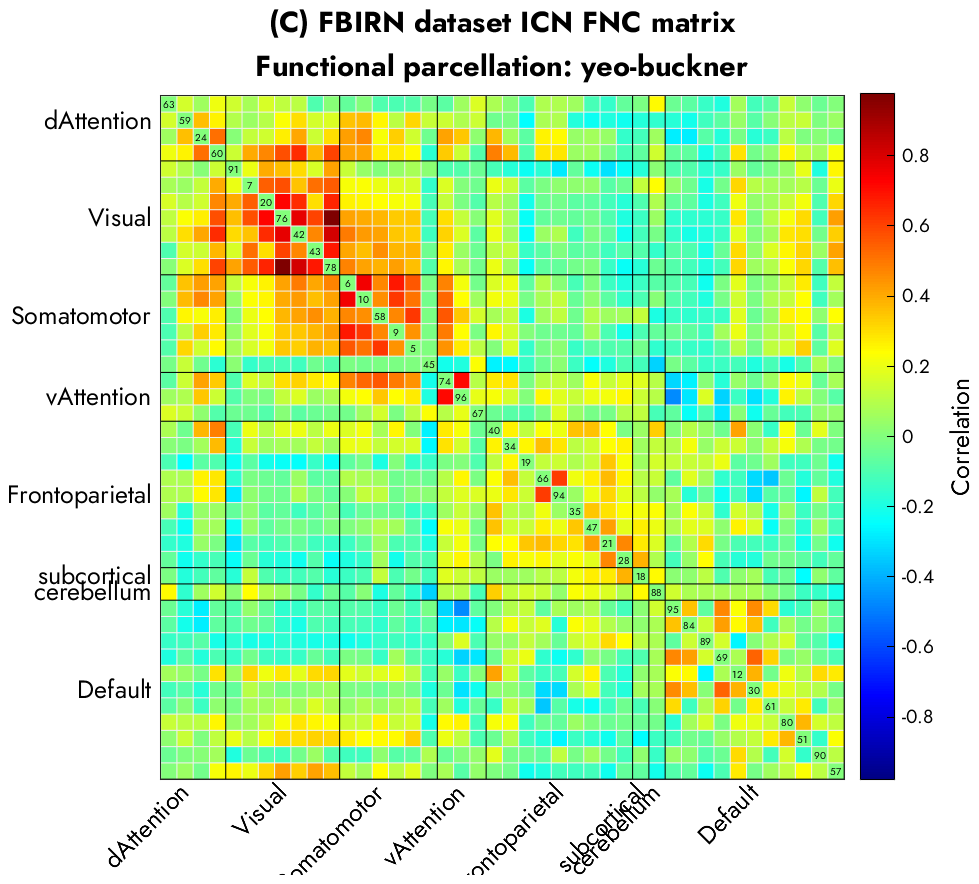
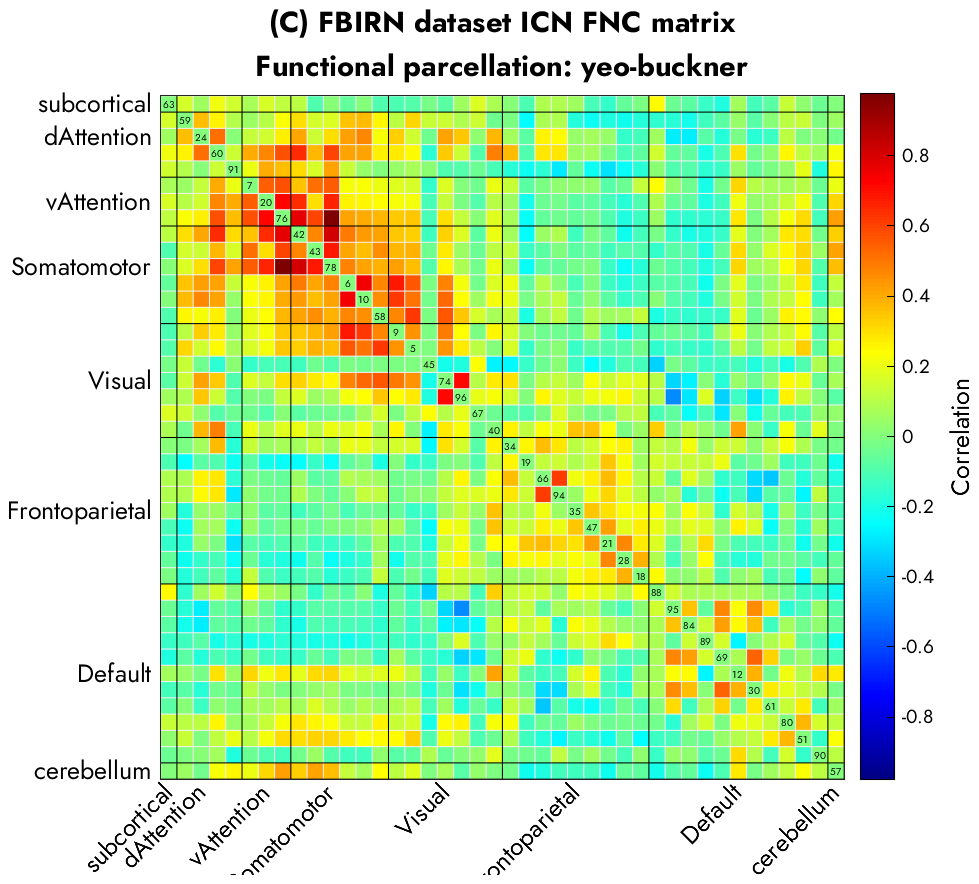
mostly readme

diff --git a/bin/autolabeller/label_auto_main.m b/bin/autolabeller/label_auto_main.m
@@ -137,8 +137,12 @@ function label_auto_main( params )
     
     % predict functional labels
     if params.skip_functional
-        func_labels = readtable( fullfile( params.outpath, ['functional_labels_' params.functional_atlas '.csv'] ) );
-        func_labels = [func_labels.Properties.VariableNames; table2cell( func_labels )];
+        % check if the func label file exists
+        fl = fullfile( params.outpath, ['functional_labels_' params.functional_atlas '.csv'] );
+        if exist( fl )        
+            func_labels = readtable( fl );
+            func_labels = [func_labels.Properties.VariableNames; table2cell( func_labels )];
+        end
     else
         func_labels = label_functional( sm_path, mask_path, params.threshold, network_labels, params.functional_atlas, params.n_corr, params.outpath );
     end
@@ -163,8 +167,12 @@ function label_auto_main( params )
     end
 
     % write output
-    writecell( anat_labels, fullfile(params.outpath, ['anatomical_labels_' params.anatomical_atlas '.csv']) )
-    writecell( func_labels, fullfile(params.outpath, ['functional_labels_' params.functional_atlas '.csv']) )
+    if ~params.skip_anatomical
+        writecell( anat_labels, fullfile(params.outpath, ['anatomical_labels_' params.anatomical_atlas '.csv']) )
+    end
+    if ~params.skip_functional
+        writecell( func_labels, fullfile(params.outpath, ['functional_labels_' params.functional_atlas '.csv']) )
+    end
     if flag_sort_fnc
         csvwrite( fullfile(params.outpath, ['sorted_network_idx_' params.functional_atlas '.csv']), sorted_idx )
         csvwrite( fullfile(params.outpath, ['sorted_fnc_' params.functional_atlas '.csv']), network_fnc )

diff --git a/src/example_plot_gica_sm.m b/src/example_plot_gica_sm.m
@@ -5,17 +5,17 @@ addpath( genpath( '../bin/GroupICATv4.0b/' ) )
 addpath( '/trdapps/linux-x86_64/matlab/toolboxes/spm12/' )
 addpath( genpath( '../bin/MCIv4/' ) )
 addpath( genpath( '../bin/CanlabCore/' ) )
-addpath( '/data/mialab/users/salman/projects/funfc/src/' )
+addpath( '/data/users2/salman/projects/funfc/src/' )
 
 % % fbirn
 % outpath = '../results/fbirn_trained_by_neuromark/';
-% param_file = '/data/mialab/users/salman/projects/fBIRN/current/data/ICAresults_C100_fbirn/fbirnp3_rest_ica_parameter_info.mat';
+% param_file = '/data/users2/salman/projects/fBIRN/current/data/ICAresults_C100_fbirn/fbirnp3_rest_ica_parameter_info.mat';
 % anatomical_atlas = 'aal';
 % functional_atlas = 'yeo_buckner';
 
 % cobre
 outpath = '../results/cobre_trained_by_neuromark/';
-param_file = '/data/mialab/users/salman/projects/COBRE/current/results/ica_results_old/cobre1_ica_parameter_info.mat';
+param_file = '/data/users2/salman/projects/COBRE/current/results/ica_results_old/cobre1_ica_parameter_info.mat';
 anatomical_atlas = 'aal';
 functional_atlas = 'yeo_buckner';
 

diff --git a/README.md b/README.md
@@ -75,13 +75,29 @@ Example code can be found in `src/example_label_ic.m`.
 
 ### Outputs
 The following files are written into params.outpath folder:
-* `network_labels.csv` Network labels vector (0=artifact, 1=network)
-* `anatomical_labels.csv` AAL anatomical region with highest correlations to the spatial maps
-* `functional_labels.csv` Functional parcellations with highest correlations to the spatial maps
-* `sorted_IC_idx.csv` sorted IC index
-* `sorted_fnc.csv` sorted FNC matrix
+* `network_labels.csv` is a vector of 0/1 corresponding to the input spatial maps; 0=artifact, 1=network
+* `anatomical_labels.csv` has the following columns:
+    * `volume` 1-N where N is the number of input spatial maps
+    * `network` a vector of 0/1 corresponding to the input spatial maps; 0=artifact, 1=network
+    * `region_1`,`spatial_corr_1` AAL anatomical region with the highest spatial correlation to the spatial maps, and the correlation value
+    * `region_2`,`spatial_corr_2`,`region_3`,`spatial_corr_3` AAL anatomical region with the second and third highest spatial correlations to the spatial maps, and the corresponding correlation values
+* `functional_labels_[atlas].csv` has the following columns:
+    * `volume` 1-N where N is the number of input spatial maps
+    * `network` a vector of 0/1 corresponding to the input spatial maps; 0=artifact, 1=network
+    * `region_1`,`spatial_corr_1` Functional parcellation from [atlas] with highest spatial correlation to the spatial maps, and the correlation value. Current available atlas are Yeo/BucknerLab, Gordon (2016), and CAREN 
+    * `region_2`,`spatial_corr_2`,`region_3`,`spatial_corr_3` Functional parcellations with the second and third highest correlations to the spatial maps, and the corresponding correlation values
+* `sorted_IC_idx_[atlas].csv` sorted index of the input spatial maps corresponding to the brain networks (artifact-related component indexes are removed)
+* `sorted_fnc_[atlas].csv` sorted functional network connectivity (FNC) matrix of the brain networks 
+* `nc` folder contains the noisecloud toolbox output. It has the following files:
+    * `*.nii` template `nii` files warped into the same space as the input spatial maps.
+    * `nc_class_labels.txt` a vector of 0/1 corresponding to the input spatial maps; 0=artifact, 1=network
+    * `training/testing_features.csv` contains the training/testing input data features used by the noisecloud toolbox in classification.  
 
 ## Result
+
+The following figures are generated using the `./src/example_plot_fnc.m` script. 
+You can update the ICA parameter file and autolabeller output folder locations in the above to generate new figures.
+The script uses ICA parameter file to load the FNC from the ICA post-process result.
 
 <img src="results/fbirn_nc_train_sub_th04/FBIRN_fnc_unsorted_yeo_buckner.png" alt="unsorted" width="150"/> <img src="results/fbirn_nc_train_sub_th04/FBIRN_fnc_reordered_yeo_buckner.png" alt="reordered" width="150"/> <img src="results/fbirn_nc_train_sub_th04/FBIRN_fnc_icn_yeo_buckner.png" alt="icn" width="150"/>
 
